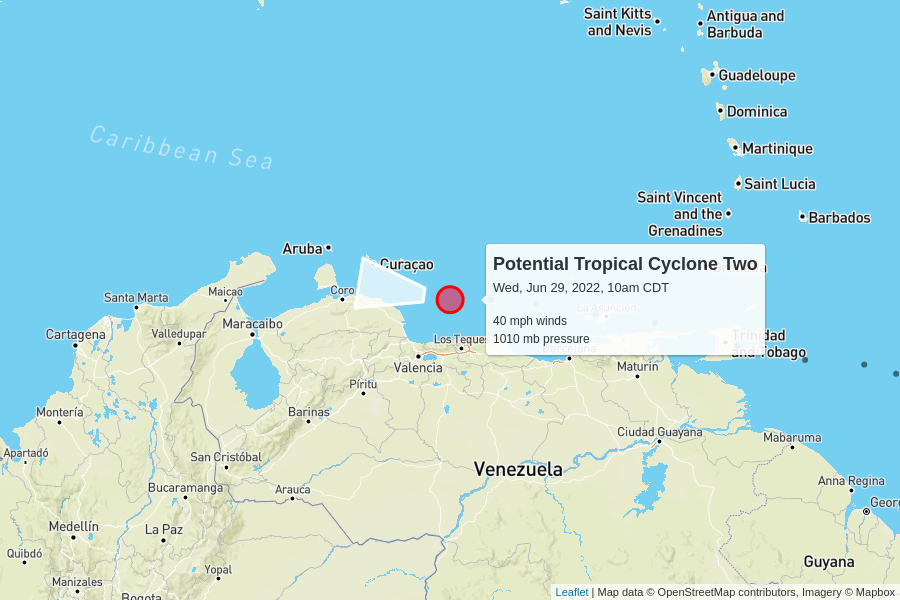
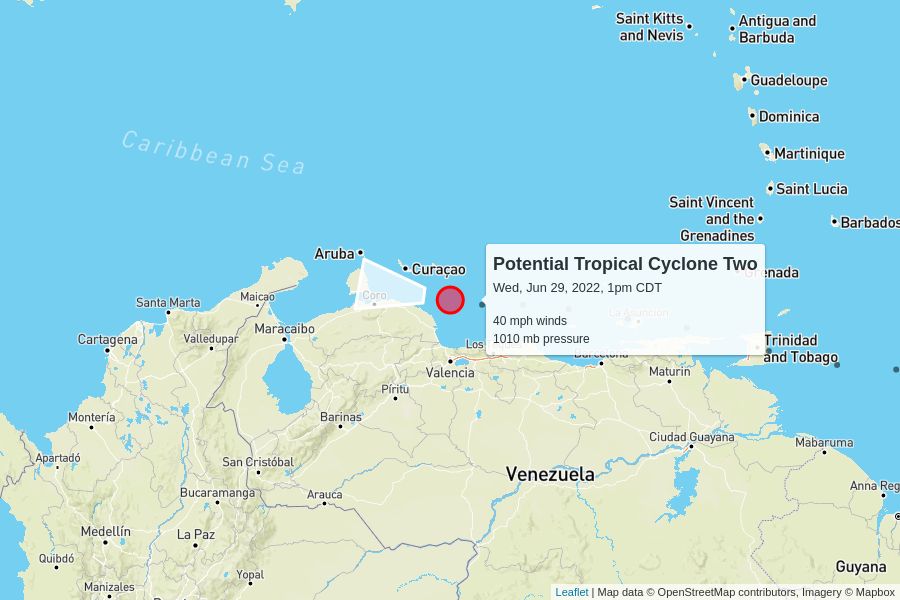
automatic update

diff --git a/docs/index.html b/docs/index.html
@@ -100,7 +100,7 @@
         <td colspan="6" class="storm category-0" >
           <h2>
             Potential Tropical Cyclone Two
-            <p class="updated">last updated <span data-time>2022-06-29T15:00:00.000Z</span></p>
+            <p class="updated">last updated <span data-time>2022-06-29T18:00:00.000Z</span></p>
           </h2>
         </td>
       </tr>
